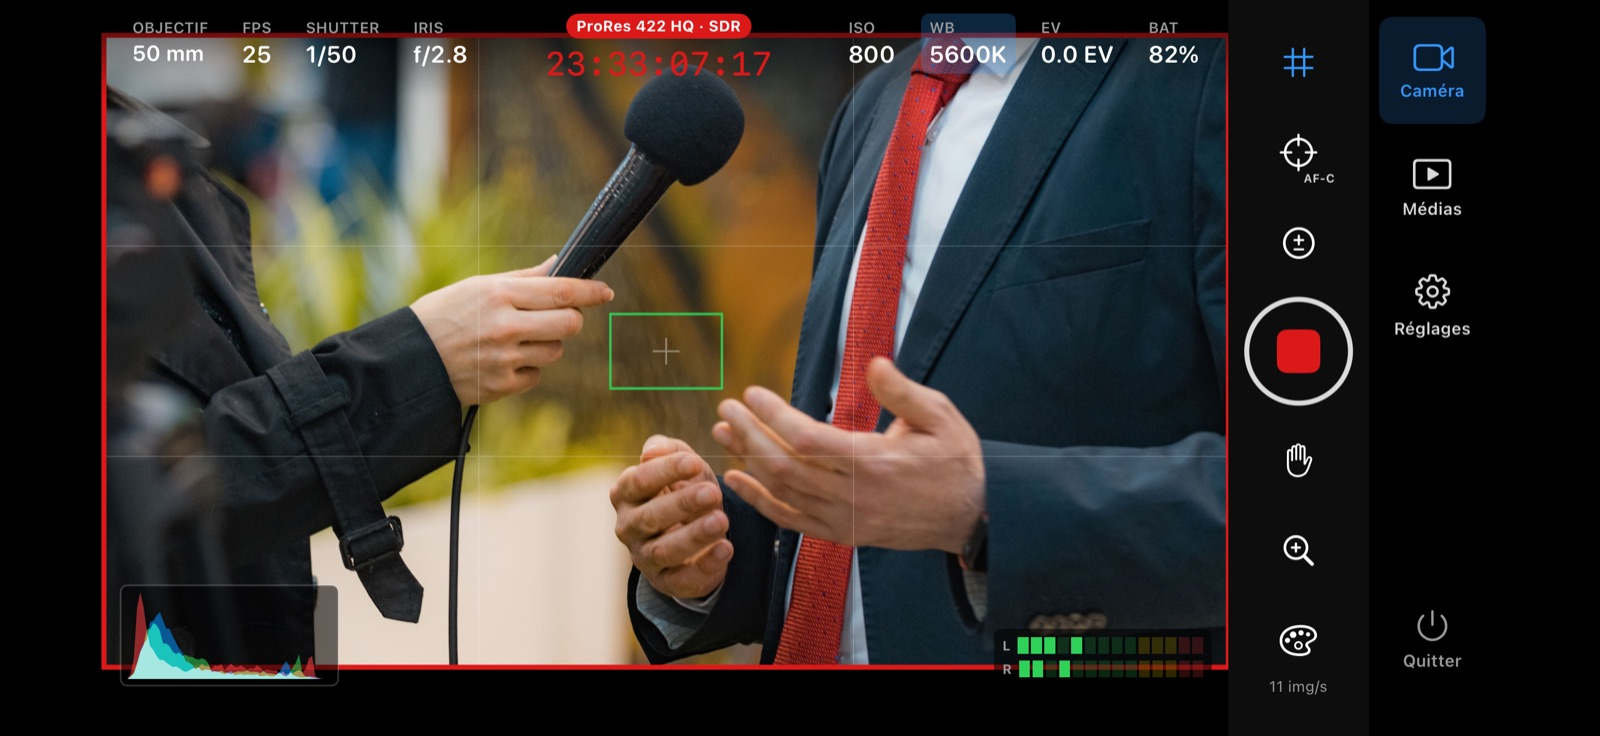
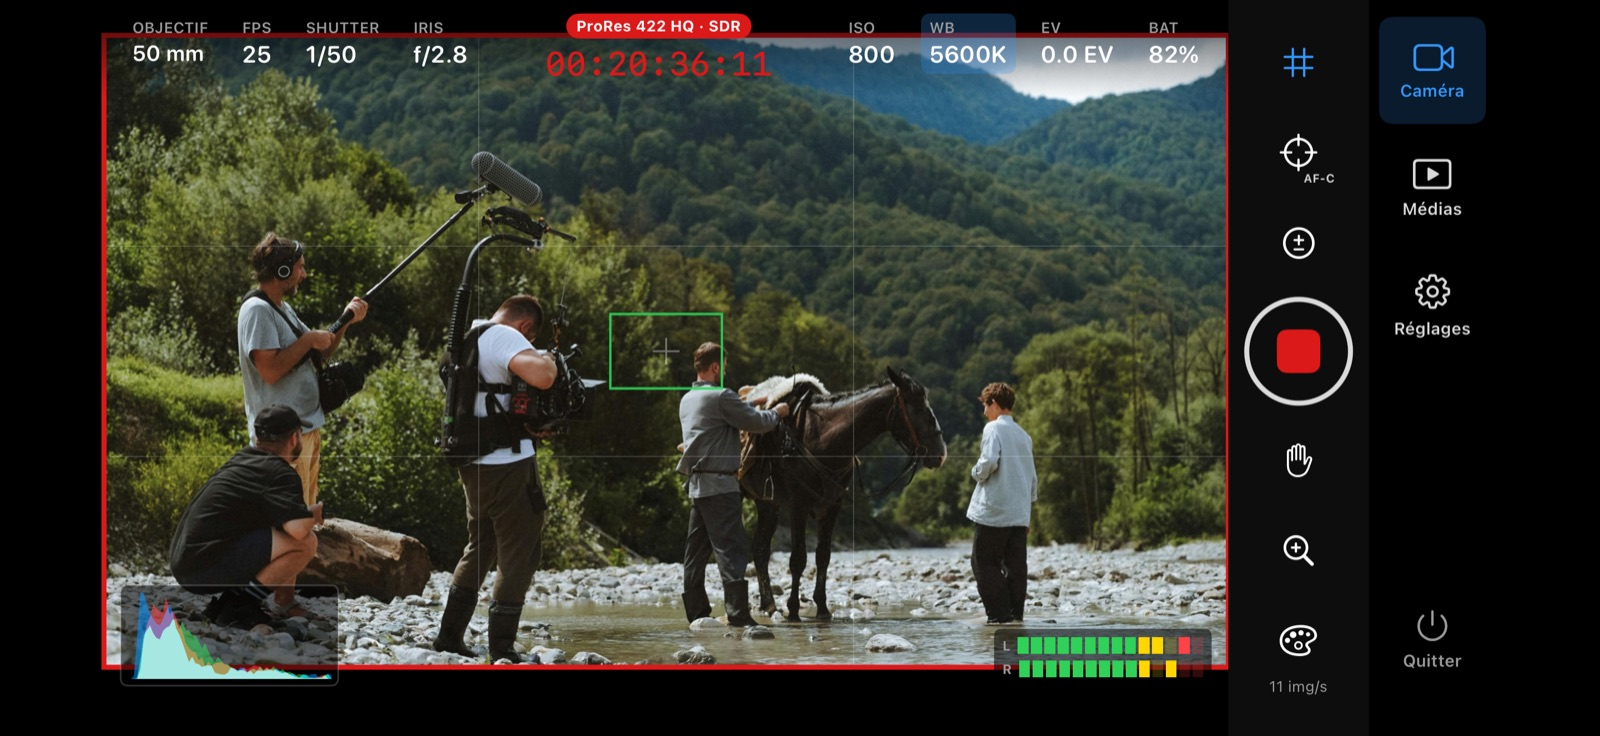
Nouvelle image d'accueil

diff --git a/index.html b/index.html
@@ -137,7 +137,7 @@
           <a class="btn ghost" href="#confidentialite">Confidentialité</a>
         </div>
       </div>
-      <div class="device"><img src="img/shot-2.jpg" alt="Live view pendant un enregistrement : timecode, vu-mètres et histogramme"></div>
+      <div class="device"><img src="img/shot-2.jpg" alt="Live view pendant un tournage : timecode, vu-mètres et histogramme"></div>
     </div>
   </section>
 
